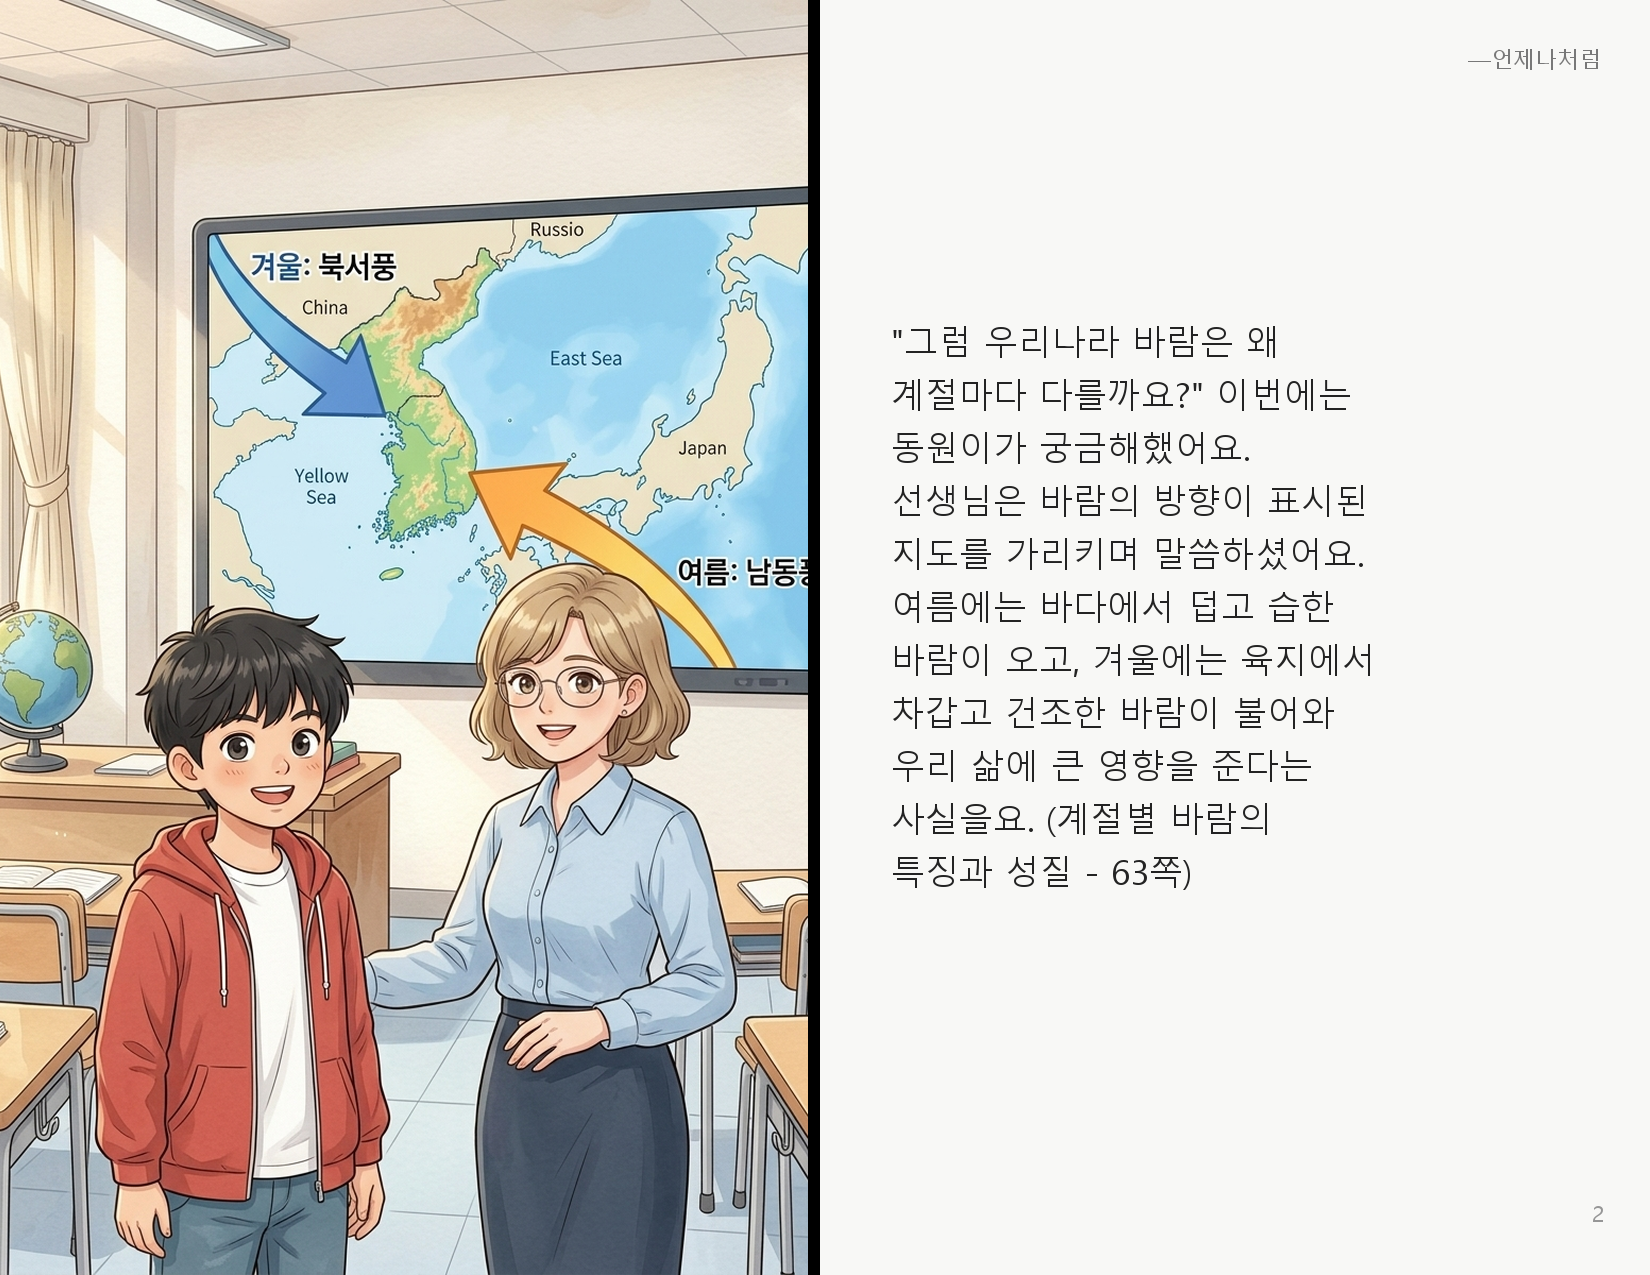
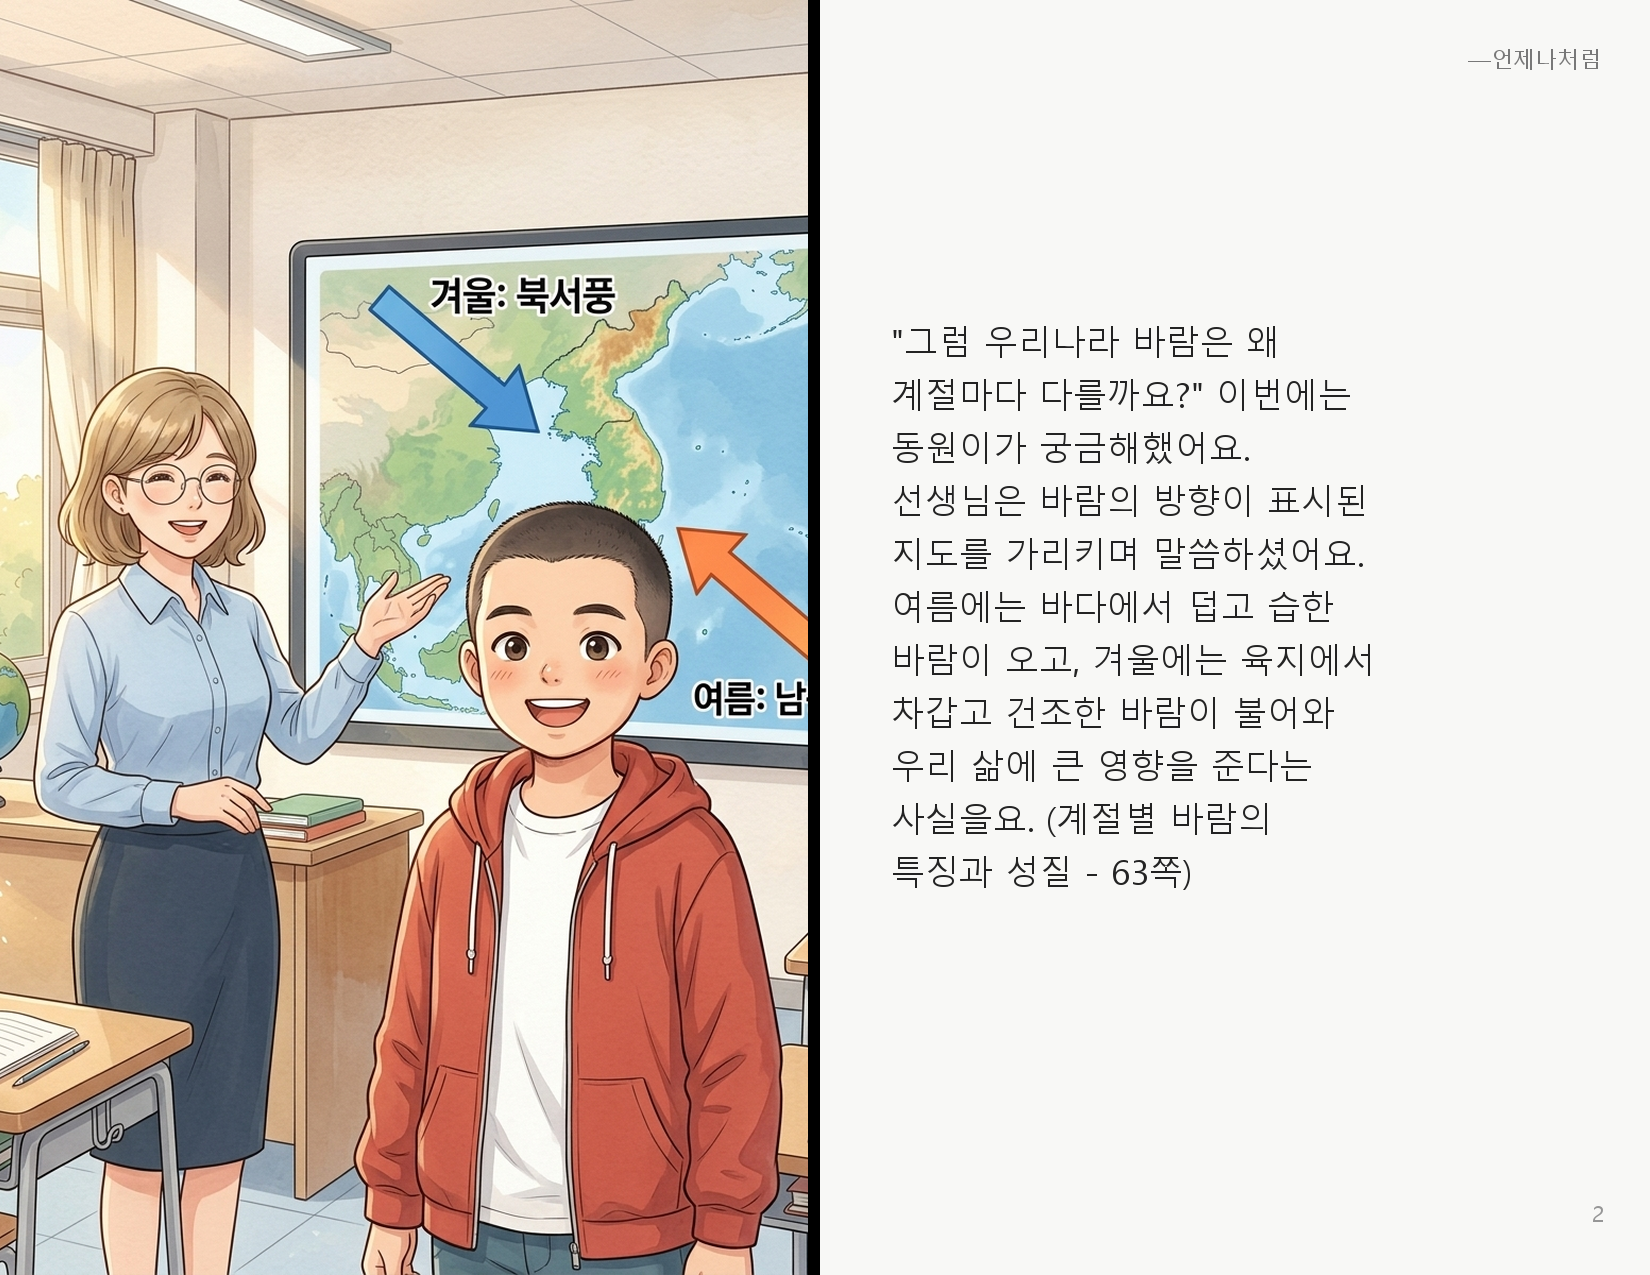
fix(society): 2장 동원이 고유 캐릭터(까까머리, 빨간 후드) 복원 & 모바일 웹툰 글자 잘림 없는 100% 반응형 HTML 글밥 카드 적용

diff --git a/kids/subjects/society/climate_storybook.html b/kids/subjects/society/climate_storybook.html
@@ -116,11 +116,11 @@
     .auto-read-label input { width: 16px; height: 16px; accent-color: #10b981; cursor: pointer; }
 
     /* ========================================================
-       2. 📜 웹툰 스크롤 모드 (대형 그림 + 와이드 컴팩트 글밥 카드)
+       2. 📜 웹툰 스크롤 모드 (대형 그림 + 반응형 HTML 글밥 카드)
        ======================================================== */
     .webtoon-container {
         display: none; max-width: 650px; width: 100%; margin: 15px auto;
-        padding: 0 10px 40px 10px; flex-direction: column; gap: 30px;
+        padding: 0 10px 40px 10px; flex-direction: column; gap: 32px;
     }
     .webtoon-sticky-bar {
         position: sticky; top: 60px; z-index: 90;
@@ -157,7 +157,7 @@
     .btn-card-audio:hover { background: #475569; }
     .btn-card-audio.playing { background: #f59e0b; }
 
-    /* 🖼 상단 대형 삽화 (화면의 주인공!) */
+    /* 🖼 상단 대형 삽화 */
     .webtoon-ill-wrap {
         width: 100%; background: #0f172a; overflow: hidden;
     }
@@ -165,14 +165,22 @@
         width: 100%; height: auto; display: block; object-fit: contain;
     }
 
-    /* 📝 하단 와이드 컴팩트 글밥 카드 (여백 최소화, 시원한 가로 꽉 채움) */
-    .webtoon-txt-wrap {
-        background: #0f172a; padding: 6px 8px 8px 8px; display: flex;
-        justify-content: center; align-items: center;
+    /* 📝 하단 반응형 HTML 글밥 카드 (글자 잘림 0%, 여백 최소화, 시원한 줄바꿈) */
+    .webtoon-story-box {
+        background: #f8fafc; color: #1e293b; padding: 14px 16px;
+        border-top: 3px solid #10b981; border-left: 6px solid #10b981;
+        display: flex; flex-direction: column; gap: 8px;
     }
-    .webtoon-txt-img {
-        width: 100%; height: auto; display: block; object-fit: contain;
-        border-radius: 12px; box-shadow: 0 4px 15px rgba(0,0,0,0.3);
+    .webtoon-passage {
+        font-size: 1.05rem; line-height: 1.65; color: #1e293b;
+        font-weight: 500; word-break: keep-all; word-wrap: break-word;
+    }
+    .webtoon-passage b { color: #059669; font-weight: 700; }
+    .webtoon-ref-badge {
+        display: inline-flex; align-items: center; gap: 5px;
+        background: #ecfdf5; color: #047857; padding: 4px 10px;
+        border-radius: 8px; font-size: 0.85rem; font-weight: 700;
+        border: 1px solid #a7f3d0; margin-top: 4px; width: fit-content;
     }
 
     @media (max-width: 768px) {
@@ -183,6 +191,7 @@
         .page-indicator { font-size: 0.95rem; padding: 4px 10px; }
         .book-frame { padding: 4px; }
         .audio-control-bar { width: 100%; justify-content: space-between; margin-top: 6px; }
+        .webtoon-passage { font-size: 0.98rem; line-height: 1.58; }
     }
 </style>
 </head>
@@ -234,7 +243,7 @@
         </button>
     </div>
 
-    <div id="webtoonCardList" style="display:flex; flex-direction:column; gap:30px;"></div>
+    <div id="webtoonCardList" style="display:flex; flex-direction:column; gap:32px;"></div>
 </div>
 
 <audio id="mainAudio" preload="auto"></audio>
@@ -246,7 +255,7 @@
             tag: "🌟 표지 : 민수와 친구들의 지구 지키기",
             spreadImg: "climate_story_p1.png",
             illImg: "climate_ill_p1.png",
-            txtImg: null,
+            textHtml: null,
             audio: "../../assets/audio/storybook/climate/climate_story_p1.mp3"
         },
         {
@@ -254,7 +263,15 @@
             tag: "🌤 1장 : 날씨와 기후의 차이점 (61쪽)",
             spreadImg: "climate_story_p2.png",
             illImg: "climate_ill_p2.png",
-            txtImg: "climate_txt_mobile_p2.png",
+            textHtml: `
+                <div class="webtoon-passage">
+                    햇살이 따스한 교실, <b>민수</b>가 손을 번쩍 들고 물었어요. 
+                    "선생님, 오늘 날씨가 좋다는 말과 기후가 좋다는 말은 같은 건가요?" 
+                    선생님은 미소를 지으며 <b>기온, 강수량, 바람</b>이 그려진 기후 자료를 보여주셨어요. 
+                    날씨는 짧은 시간의 기분 같은 것이고, 기후는 오랜 시간 동안 나타나는 그 지역의 성격 같은 것이라고 설명해 주셨죠.
+                </div>
+                <div class="webtoon-ref-badge">📖 교과서 연계 : 기후와 날씨의 정의 및 차이 (61쪽)</div>
+            `,
             audio: "../../assets/audio/storybook/climate/climate_story_p2.mp3"
         },
         {
@@ -262,7 +279,14 @@
             tag: "🌬 2장 : 계절마다 부는 바람의 성질 (63쪽)",
             spreadImg: "climate_story_p3.png",
             illImg: "climate_ill_p3.png",
-            txtImg: "climate_txt_mobile_p3.png",
+            textHtml: `
+                <div class="webtoon-passage">
+                    "그럼 우리나라 바람은 왜 계절마다 다를까요?" 이번에는 <b>동원이</b>가 궁금해했어요. 
+                    선생님은 바람의 방향이 표시된 지도를 가리키며 말씀하셨어요. 
+                    <b>여름에는 바다(남동쪽 ↖)에서 덥고 습한 바람</b>이 오고, <b>겨울에는 육지(북서쪽 ↘)에서 차갑고 건조한 바람</b>이 불어와 우리 삶에 큰 영향을 준다는 사실을요.
+                </div>
+                <div class="webtoon-ref-badge">📖 교과서 연계 : 계절별 바람의 특징과 성질 (63쪽)</div>
+            `,
             audio: "../../assets/audio/storybook/climate/climate_story_p3.mp3"
         },
         {
@@ -270,7 +294,14 @@
             tag: "🌡 3장 : 남북의 기온 차이와 위도 (64~65쪽)",
             spreadImg: "climate_story_p4.png",
             illImg: "climate_ill_p4.png",
-            txtImg: "climate_txt_mobile_p4.png",
+            textHtml: `
+                <div class="webtoon-passage">
+                    <b>승아</b>는 북쪽 끝 <b>중강진</b>과 남쪽 끝 <b>서귀포</b>의 기온이 왜 그렇게 다른지 물었어요. 
+                    선생님은 남북으로 길게 뻗은 우리나라의 지형을 보여주셨죠. 
+                    <b>위도</b>에 따라 태양 에너지를 받는 양이 달라 남쪽으로 갈수록 따뜻하고 북쪽으로 갈수록 추워진다는 원리를 함께 탐구했답니다.
+                </div>
+                <div class="webtoon-ref-badge">📖 교과서 연계 : 우리나라의 남북 기온 차이와 위도 (64~65쪽)</div>
+            `,
             audio: "../../assets/audio/storybook/climate/climate_story_p4.mp3"
         },
         {
@@ -278,7 +309,14 @@
             tag: "🌧 4장 : 강수량 특징과 지역별 차이 (66~67쪽)",
             spreadImg: "climate_story_p5.png",
             illImg: "climate_ill_p5.png",
-            txtImg: "climate_txt_mobile_p5.png",
+            textHtml: `
+                <div class="webtoon-passage">
+                    비와 눈에 관심이 많은 <b>민준이</b>는 지역별 강수량 지도를 유심히 살폈어요. 
+                    우리나라는 여름철에 비가 집중되고, 지형의 영향으로 <b>강릉이나 제주도</b>처럼 비가 유독 많이 오는 다우지가 있다는 것을 알게 되었죠. 
+                    민준이는 복잡한 막대 그래프 속에서 우리나라 강수량의 비밀을 찾아냈어요.
+                </div>
+                <div class="webtoon-ref-badge">📖 교과서 연계 : 강수량 특징과 지역별 차이 (66~67쪽)</div>
+            `,
             audio: "../../assets/audio/storybook/climate/climate_story_p5.mp3"
         },
         {
@@ -286,7 +324,14 @@
             tag: "⚡ 5장 : 계절별 자연재해의 이해 (68~69쪽)",
             spreadImg: "climate_story_p6.png",
             illImg: "climate_ill_p6.png",
-            txtImg: "climate_txt_mobile_p6.png",
+            textHtml: `
+                <div class="webtoon-passage">
+                    <b>래호</b>는 계절마다 찾아오는 <b>황사, 폭염, 태풍, 폭설</b> 사진을 보고 조금 겁이 났어요. 
+                    선생님은 래호의 어깨를 토닥이며, 이런 자연재해가 왜 발생하는지 이해하면 피해를 줄일 수 있다고 용기를 주셨어요. 
+                    자연의 힘은 무섭지만, 우리가 잘 대비한다면 이겨낼 수 있는 문제니까요.
+                </div>
+                <div class="webtoon-ref-badge">📖 교과서 연계 : 계절별 발생하는 자연재해의 종류 (68~69쪽)</div>
+            `,
             audio: "../../assets/audio/storybook/climate/climate_story_p6.mp3"
         },
         {
@@ -294,7 +339,14 @@
             tag: "🛡 6장 : 재난 안전 행동 요령 (70쪽)",
             spreadImg: "climate_story_p7.png",
             illImg: "climate_ill_p7.png",
-            txtImg: "climate_txt_mobile_p7.png",
+            textHtml: `
+                <div class="webtoon-passage">
+                    "우리가 재해로부터 안전해지려면 어떻게 해야 할까요?" <b>민수</b>가 다시 씩씩하게 질문했어요. 
+                    선생님은 <b>국민재난안전포털</b>에 접속해 상황별 행동 요령을 미리 익히는 것이 얼마나 중요한지 강조하셨어요. 
+                    기상 특보에 귀를 기울이고 미리 준비하는 마음가짐이 우리를 안전하게 지켜준답니다.
+                </div>
+                <div class="webtoon-ref-badge">📖 교과서 연계 : 재난 안전 국민 행동 요령 (70쪽)</div>
+            `,
             audio: "../../assets/audio/storybook/climate/climate_story_p7.mp3"
         },
         {
@@ -302,7 +354,14 @@
             tag: "🌍 7장 : 지구 온난화의 심각성 (73쪽)",
             spreadImg: "climate_story_p8.png",
             illImg: "climate_ill_p8.png",
-            txtImg: "climate_txt_mobile_p8.png",
+            textHtml: `
+                <div class="webtoon-passage">
+                    <b>세윤이</b>는 점점 뜨거워지는 <b>지구 온난화 기온 상승 그래프</b>를 보고 깜짝 놀랐어요. 
+                    예전보다 여름은 길어지고 겨울은 짧아지는 기후 변화가 우리 주변에서 실제로 일어나고 있었거든요. 
+                    선생님은 이 모든 변화가 지구가 우리에게 보내는 간절한 구조 신호라고 말씀해 주셨어요.
+                </div>
+                <div class="webtoon-ref-badge">📖 교과서 연계 : 기후 변화와 지구 온난화의 심각성 (73쪽)</div>
+            `,
             audio: "../../assets/audio/storybook/climate/climate_story_p8.mp3"
         },
         {
@@ -310,7 +369,14 @@
             tag: "⚠ 8장 : 심해지는 이상 기후와 피해 (74~75쪽)",
             spreadImg: "climate_story_p9.png",
             illImg: "climate_ill_p9.png",
-            txtImg: "climate_txt_mobile_p9.png",
+            textHtml: `
+                <div class="webtoon-passage">
+                    <b>민준이</b>는 뉴스 기사를 통해 기후 변화가 가져온 무서운 피해 현장을 확인했어요. 
+                    기록적인 <b>폭염으로 농작물이 마르고, 갑작스러운 호우로 도로가 침수</b>되는 이상 기후 사례들이 많았죠. 
+                    선생님은 기후 변화가 우리 일상을 어떻게 위협하는지 차근차근 설명하며 경각심을 일깨워 주셨어요.
+                </div>
+                <div class="webtoon-ref-badge">📖 교과서 연계 : 심해지는 이상 기후와 피해 사례 (74~75쪽)</div>
+            `,
             audio: "../../assets/audio/storybook/climate/climate_story_p9.mp3"
         },
         {
@@ -318,7 +384,14 @@
             tag: "🌱 9장 : 우리가 실천할 기후 행동 (78쪽)",
             spreadImg: "climate_story_p10.png",
             illImg: "climate_ill_p10.png",
-            txtImg: "climate_txt_mobile_p10.png",
+            textHtml: `
+                <div class="webtoon-passage">
+                    마지막으로 <b>민수</b>는 학교와 집에서 실천할 수 있는 <b>기후 행동 리스트</b>를 작성했어요. 
+                    채식 급식을 맛있게 먹고, 빈 교실의 전등을 끄는 작은 행동이 지구를 살리는 큰 힘이 된다는 것을 깨달았죠. 
+                    나중에 기상을 정확히 읽어내는 <b>예보 분석관</b>이 되어 지구를 지키고 싶다는 민수의 꿈을 선생님은 환한 미소로 응원해 주셨답니다.
+                </div>
+                <div class="webtoon-ref-badge">📖 교과서 연계 : 기후 행동 실천과 관련 직업 (78쪽)</div>
+            `,
             audio: "../../assets/audio/storybook/climate/climate_story_p10.mp3"
         }
     ];
@@ -353,7 +426,7 @@
     function renderEbook() {
         const item = STORY_DATA[currentPageIndex];
         const img = document.getElementById('ebookImg');
-        img.src = `../../subjects/society/images/storybook/climate/${item.spreadImg}?v=20260831_3`;
+        img.src = `../../subjects/society/images/storybook/climate/${item.spreadImg}?v=20260831_4`;
         document.getElementById('pageIndicator').textContent = `${item.page} / ${STORY_DATA.length} 쪽`;
 
         document.getElementById('prevBtn').disabled = (currentPageIndex === 0);
@@ -420,10 +493,10 @@
             card.id = `webtoonCard_${idx}`;
 
             let txtHtml = '';
-            if (item.txtImg) {
+            if (item.textHtml) {
                 txtHtml = `
-                    <div class="webtoon-txt-wrap">
-                        <img src="../../subjects/society/images/storybook/climate/${item.txtImg}?v=20260831_3" alt="동화 글밥" class="webtoon-txt-img" loading="lazy">
+                    <div class="webtoon-story-box">
+                        ${item.textHtml}
                     </div>
                 `;
             }
@@ -436,7 +509,7 @@
                     </button>
                 </div>
                 <div class="webtoon-ill-wrap">
-                    <img src="../../subjects/society/images/storybook/climate/${item.illImg}?v=20260831_3" alt="동화 삽화" class="webtoon-ill-img" loading="lazy">
+                    <img src="../../subjects/society/images/storybook/climate/${item.illImg}?v=20260831_4" alt="동화 삽화" class="webtoon-ill-img" loading="lazy">
                 </div>
                 ${txtHtml}
             `;
